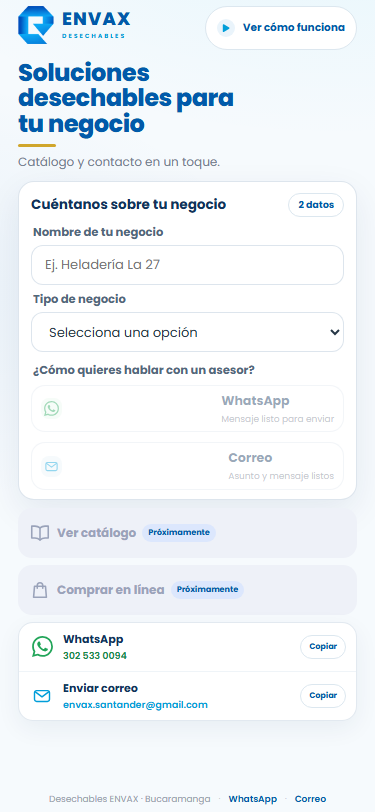
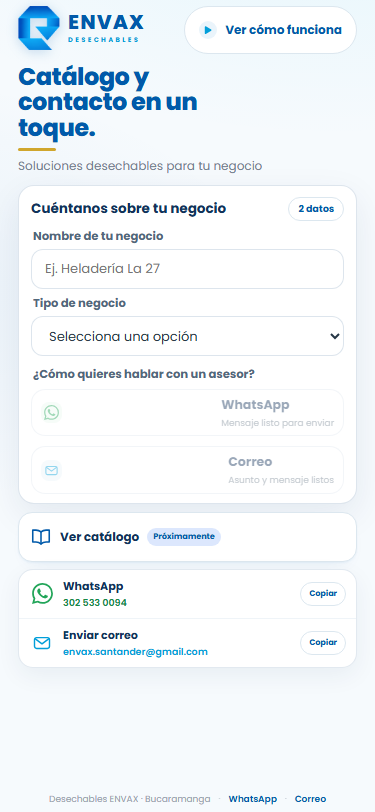
chore(contact): refresh QA evidence and worker config

diff --git a/docs/RESPONSIVE-QA.md b/docs/RESPONSIVE-QA.md
@@ -3,8 +3,9 @@
 ## Principios implementados
 
 - Sin `overflow: hidden` global para forzar desktop en una pantalla.
-- Dos columnas solo cuando `min-width: 1100px` y `min-height: 760px` permiten una composicion comoda.
-- Tablet y pantallas bajas permanecen en flujo vertical; el contenido puede hacer scroll natural.
+- En desktop (`min-width: 1100px`) el formulario y la demo se organizan en dos áreas con límites de ancho y alto fluidos.
+- En tablet o formatos bajos (`640px` a `1099px`, hasta `779px` de alto) los bloques de contacto se redistribuyen en una grilla compacta de dos áreas. La demo queda disponible desde un control explícito y nunca desplaza ni recorta el formulario.
+- En tablet vertical y móvil se usa flujo vertical; cuando la altura no alcanza, el documento conserva scroll natural en lugar de ocultar contenido.
 - La demo inline tiene altura limitada con `clamp()`; en formatos no aptos se abre explicitamente, no de forma automatica.
 
 ## Evidencia local capturada
@@ -13,7 +14,7 @@
 
 - Capturados: 360x800, 375x812, 390x844, 393x873, 412x915, 430x932, 768x1024, 820x1180, 1024x768, 1024x1366, 1280x720, 1366x768, 1440x900, 1600x900, 1920x1080, 2560x1440, 3122x2120, 844x390, 932x430 y 1024x600.
 - Resultado actual: ningun viewport capturado presenta overflow horizontal.
-- 1366x768, 1440x900, 1600x900, 1920x1080, 2560x1440 y 3122x2120 ajustan toda la composicion desktop dentro del viewport. En 1280x720 y los formatos tablet, movil o paisaje bajo se usa flujo vertical con scroll natural en vez de recortarse.
+- Los 20 viewports capturados no presentan overflow horizontal, overflow vertical ni elementos críticos recortados. El chequeo registra los bounds del hero, formulario, CTAs, contacto directo, demo y footer para evitar falsos positivos donde el scroll no revela una superposición.
 
 ## Cobertura pendiente
 

diff --git a/README.md b/README.md
@@ -2,7 +2,7 @@
 
 Página de contacto de Desechables ENVAX (Bucaramanga) con demostración animada y atribución first-party para el QR permanente.
 
-- `index.html` — Página de contacto. Solo muestra demo inline cuando el ancho y alto permiten dos columnas cómodas; en el resto de tamaños la demo se abre explícitamente desde el control disponible.
+- `index.html` — Página de contacto. Muestra la demo inline en desktop desde `1100px`; en tablet, móvil y formatos bajos la demo se abre explícitamente desde el control disponible, sin bloquear el contacto.
 - `demo.html` — Demostración animada que se adapta a su iframe. `?compact=1` reduce el teléfono para el panel de escritorio.
 - `qr-worker/` — Worker de Cloudflare + D1 para `/tarjeta` y `/api/qr/event`.
 - `docs/` — Contrato QR, funnel, privacidad, notificaciones y QA responsive.
